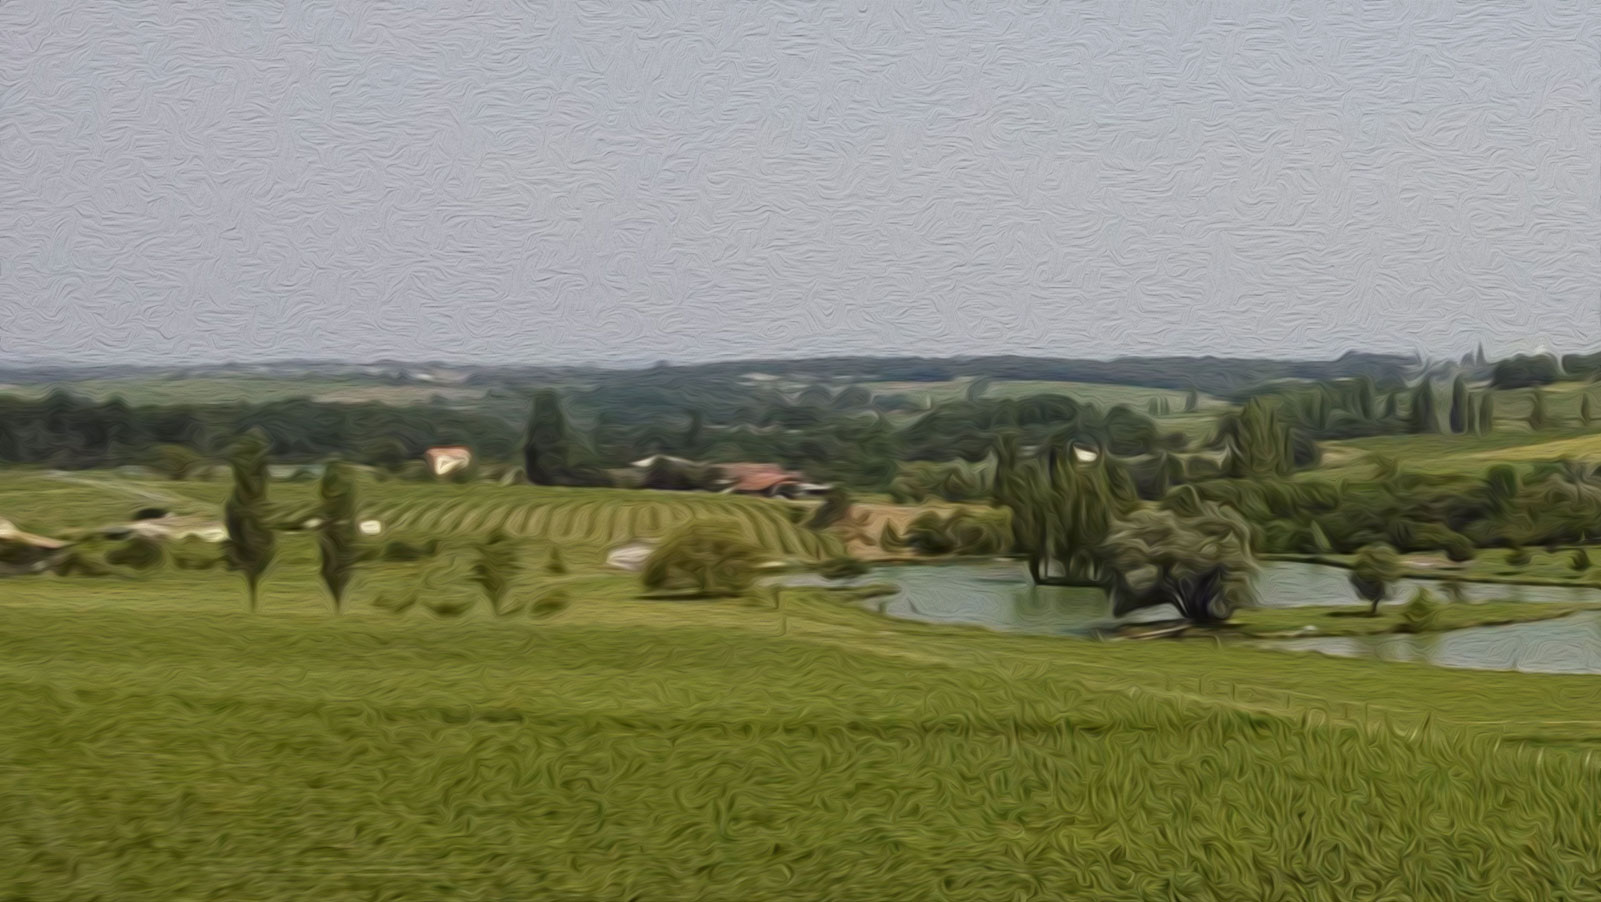
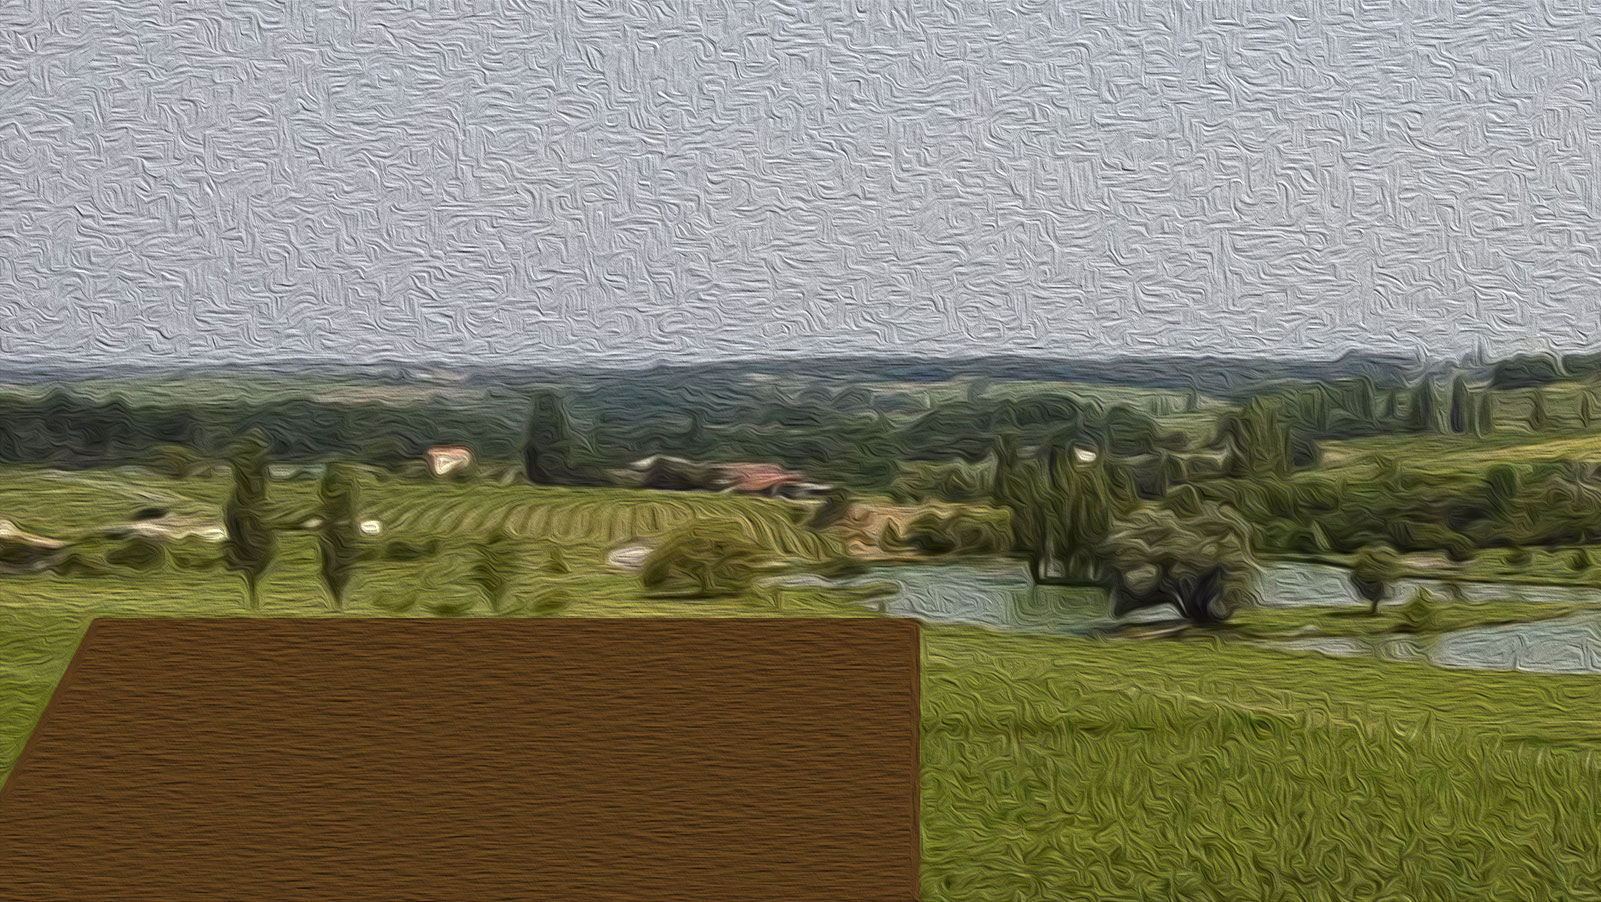
colors

diff --git a/js/brushfactory.js b/js/brushfactory.js
@@ -1,0 +1,40 @@
+var  BrushFactory = function(){
+  var glassBrushes = [];
+  var wineBrushes = []
+  var landscapeBrushes = [];
+
+  this.createGlassBrush = function(){
+    var color = new THREE.Color().setHSL(252/360, .05, .45) 
+    var brushGeo = new THREE.SphereGeometry(1);
+    var brushMat = new THREE.MeshBasicMaterial({color: color, transparent: true, opacity: 1});
+    var glassBrush= new THREE.Mesh(brushGeo, brushMat);
+    glassBrushes.push(glassBrush);
+    scene.add(glassBrush);
+    return glassBrush;
+  }
+
+  this.createWineBrush = function(){
+    var color = new THREE.Color().setHSL(335/360, .89, .32) 
+    var brushGeo = new THREE.SphereGeometry(2);
+    var brushMat = new THREE.MeshBasicMaterial({color: color, transparent: true, opacity: 0.1});
+    var wineBrush= new THREE.Mesh(brushGeo, brushMat);
+    wineBrushes.push(wineBrush);
+    scene.add(wineBrush);
+    return wineBrush;
+  }
+
+  this.createLandscapeBrush = function(){
+    var color = new THREE.Color(0x646b1e);
+    var brushGeo = new THREE.SphereGeometry(5);
+    var brushMat = new THREE.MeshBasicMaterial({color: color, transparent: true, opacity: 0.5});
+    var landscapeBrush= new THREE.Mesh(brushGeo, brushMat);
+    landscapeBrushes.push(landscapeBrush);
+    scene.add(landscapeBrush);
+    landscapeBrush.visible = false;
+    return landscapeBrush;
+  }
+
+  this.glassBrushes = glassBrushes;
+  this.wineBrushes = wineBrushes;
+  this.landscapeBrushes = landscapeBrushes;
+}

diff --git a/js/main.js b/js/main.js
@@ -10,8 +10,8 @@ var sphere;
 
 window.addEventListener('resize', onWindowResize);
 
-var leftScreen = -45;
-var rightScreen = 45;
+var leftScreen = -90;
+var rightScreen = 90;
 var topScreen = 50;
 var bottomScreen = -50;
 
@@ -37,17 +37,17 @@ function init() {
 
   scene = new THREE.Scene();
 
-  // renderer = new THREE.WebGLRenderer({preserveDrawingBuffer: true});
-  renderer = new THREE.WebGLRenderer({preserveDrawingBuffer: false});
+  renderer = new THREE.WebGLRenderer({preserveDrawingBuffer: true});
+  // renderer = new THREE.WebGLRenderer({preserveDrawingBuffer: false});
   renderer.autoClearColor = false;
   renderer.setSize(w, h);
-  renderer.setClearColor(0x1b032c)
   document.body.appendChild(renderer.domElement);
 
-  brushTray = new BrushTray();
+  brushFactory = new BrushFactory();
 
   landscape = new Landscape();
 
+  // glass = new Glass();
   // wineglass = new WineGlass();
   // wineglass.paintGlass();
 }
@@ -55,7 +55,6 @@ function init() {
 
 function animate() {
   TWEEN.update();
-  landscape.update();
   renderer.render(scene, camera);
   requestAnimationFrame(animate);
 }

diff --git a/js/landscape.js b/js/landscape.js
@@ -1,14 +1,31 @@
 var Landscape = function(){
-	var texture = THREE.ImageUtils.loadTexture('assets/countrysidestyle.jpg');
-	var planeGeo = new THREE.PlaneGeometry(140, 80);
-	var planeMat = new THREE.MeshBasicMaterial({map: texture});
-	var plane = new THREE.Mesh(planeGeo, planeMat);
-	scene.add(plane)
-	
+	var brush = brushFactory.createLandscapeBrush();
+  var csd, fsd;
+  var currentX = leftScreen;
+  setTimeout(function(){
+    brush.visible = true;
+    stroke();
+    
+  }, 1000)
 
-
-	this.update = function(){
-		// renderer.render(imageScene, camera);
-	}
-
+  function stroke(){
+    csd = {
+      y: bottomScreen
+    };
+    fsd = {
+      y: topScreen
+    };
+    var strokeTween = new TWEEN.Tween(csd).
+      to(fsd, 1000).
+      onUpdate(function(){
+        brush.position.set(currentX, csd.y, 0)
+      }).start();
+      
+      strokeTween.onComplete(function(){
+        currentX+=10;
+        if(currentX < rightScreen){
+          stroke();
+        }
+      });
+  }
 }

diff --git a/js/glass.js b/js/glass.js
@@ -1,0 +1,38 @@
+var Glass = function(){
+	var baseGeo =new THREE.CircleGeometry(10, 20);
+	var baseMat = new THREE.MeshBasicMaterial({color: 0xff0000,side: THREE.DoubleSide});
+	var base= new THREE.Mesh(baseGeo, baseMat);
+	base.position.y -=35;
+	// scene.add(base);
+
+	var stemGeo = new THREE.CylinderGeometry(1,1,5);
+	var stem = new THREE.Mesh(stemGeo);
+	// scene.add(stem);
+
+	var points = THREE.GeometryUtils.randomPointsInGeometry(base.geometry, 100);
+	var csd, fsd;
+	var brush = brushFactory.createGlassBrush();
+	paint();
+
+	function paint(){
+		var pts = _.sample(points, 2);
+		csd = {
+		  x: pts[0].x,
+		  y: pts[0].y -35
+		}
+		fsd = {
+			x: pts[1].x,
+			y: pts[1].y -35
+		}
+		var strokeTween = new TWEEN.Tween(csd).
+		  to(fsd, 2000).
+		  onUpdate(function(){
+		  	brush.position.set(csd.x, csd.y, 0);
+		  }).start();
+
+		 strokeTween.onComplete(function(){
+		 	paint();
+		 });
+	}
+
+}

diff --git a/index.html b/index.html
@@ -16,7 +16,8 @@
 
     <script src="js/wineglass.js"></script>
     <script src="js/landscape.js"></script>
-    <script src="js/brushtray.js"></script>
+    <script src="js/brushfactory.js"></script>
+    <script src="js/glass.js"></script>
     <script src="js/main.js"></script>
 
   </body>
